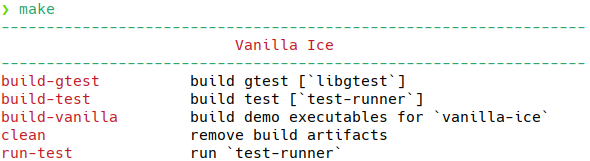
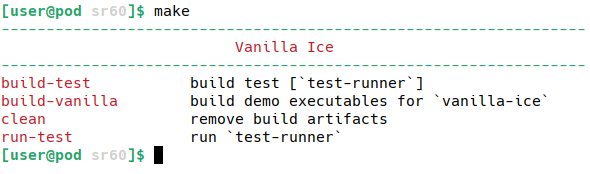
[*] emplace `test-runner` boilerplate

diff --git a/vanilla-ice/test/test-main.cpp b/vanilla-ice/test/test-main.cpp
@@ -1,0 +1,35 @@
+#include <cstdlib>
+
+#include "gtest/gtest.h"
+
+#ifdef _WIN32
+#  include <windows.h>
+#endif
+
+#ifdef _MSC_VER
+#  include <crtdbg.h>
+#endif
+
+int main(int argc, char** argv) {
+#ifdef _WIN32
+  SetErrorMode(SEM_FAILCRITICALERRORS | SEM_NOGPFAULTERRORBOX |
+               SEM_NOOPENFILEERRORBOX);
+#endif
+#ifdef _MSC_VER
+  _CrtSetReportMode(_CRT_ERROR, _CRTDBG_MODE_FILE | _CRTDBG_MODE_DEBUG);
+  _CrtSetReportFile(_CRT_ERROR, _CRTDBG_FILE_STDERR);
+  _CrtSetReportMode(_CRT_ASSERT, _CRTDBG_MODE_FILE | _CRTDBG_MODE_DEBUG);
+  _CrtSetReportFile(_CRT_ASSERT, _CRTDBG_FILE_STDERR);
+#endif
+
+  try {
+    testing::InitGoogleTest(&argc, argv);
+    testing::FLAGS_gtest_death_test_style = "threadsafe";
+
+    return RUN_ALL_TESTS();
+  } catch (...) {
+    // Catch all exceptions to satisfy `Coverity`.
+  }
+
+  return EXIT_FAILURE;
+}

diff --git a/vanilla-ice/test/smoke-test.cpp b/vanilla-ice/test/smoke-test.cpp
@@ -1,0 +1,13 @@
+#include "gmock/gmock.h"
+
+namespace vanilla_ice {
+
+TEST(SmokeTest, BasicAssertions) {
+  EXPECT_STRNE("foo", "bar");
+  EXPECT_STREQ("Hello", "Hello");
+
+  EXPECT_EQ(7 * 3 * 2, 42);
+  EXPECT_EQ(sizeof(char), sizeof(uint8_t));
+}
+
+}  // namespace vanilla_ice
